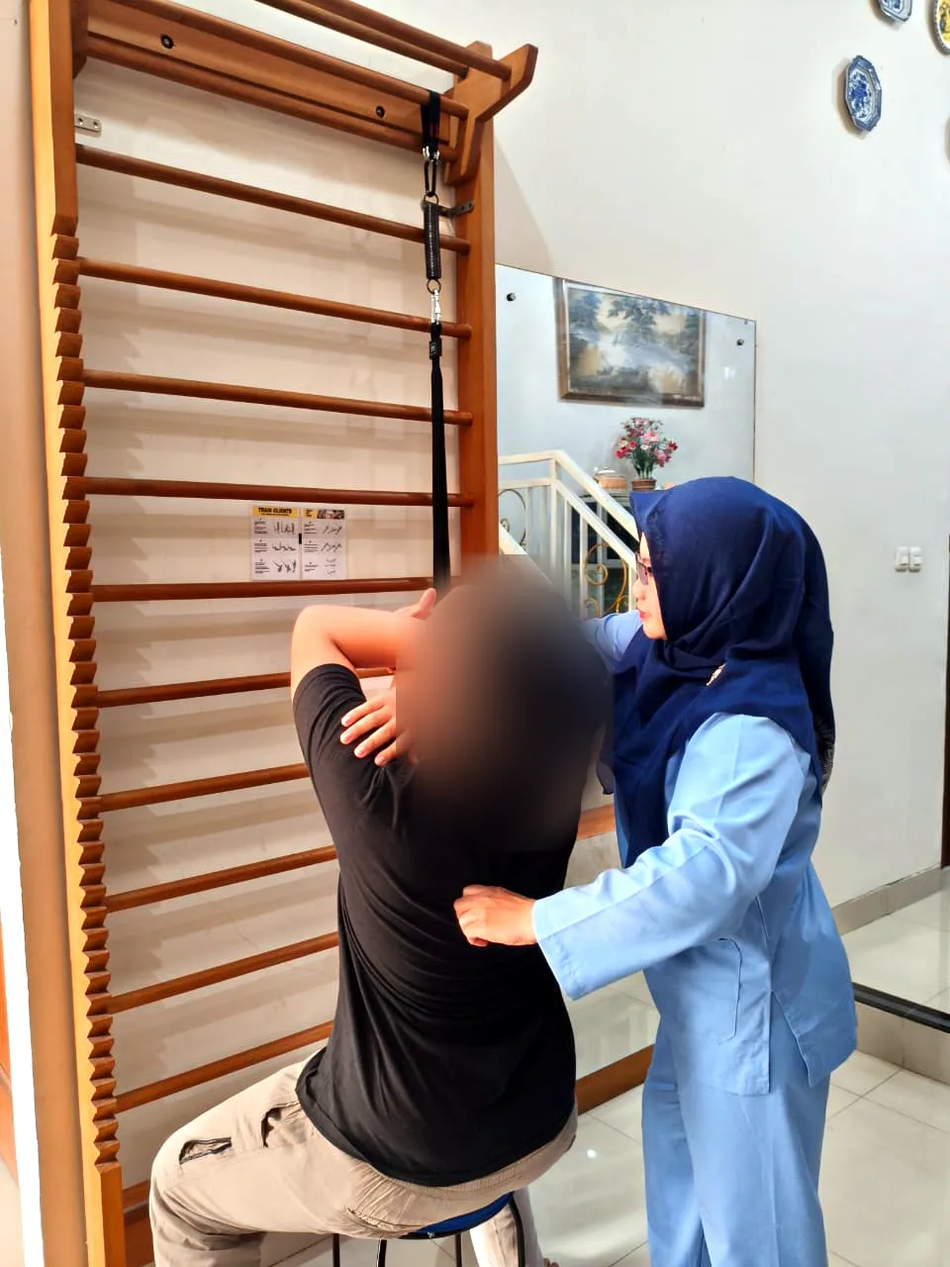
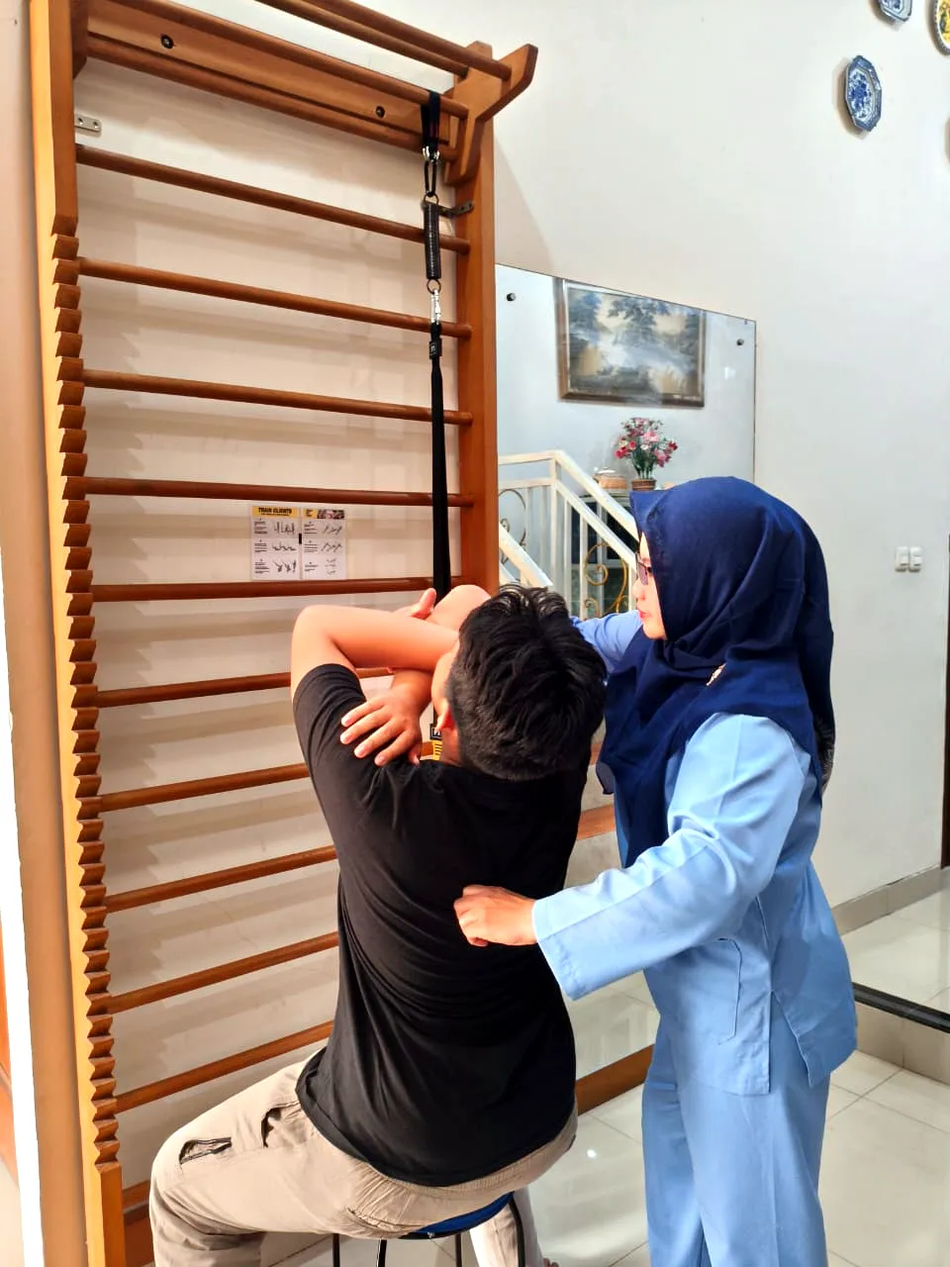
Fisio Puri Bintaro: revisi klien + ulasan Google update otomatis
- Manual therapy tanpa blur (permintaan klien), foto latihan baru + koordinasi/agility
- Teks dry needling, CTA, padel, chip pijat bayi sesuai klien; galeri Dry needling & PENS
- Section ulasan Google live dari ulasan.json, diperbarui harian via GitHub Actions

Claude-Session: https://claude.ai/code/session_01VTnUNSB4Qemk56CkeKtHzV

Changed region(s): [[0.4062, 0.4375, 0.6562, 0.6562]]

diff --git a/klinik/praktek-fisioterapi-puri-bintaro-hijau-595/index.html b/klinik/praktek-fisioterapi-puri-bintaro-hijau-595/index.html
@@ -179,6 +179,7 @@ section{padding:clamp(72px,10vw,120px) 0}
 .edu-body li{display:flex;gap:12px}
 .edu-body li .ico{color:var(--em-600);margin-top:3px}
 .edu-body .small{font-size:.9rem;color:var(--muted);padding:14px 16px;border-left:3px solid var(--gold-500);background:var(--gold-100);border-radius:0 12px 12px 0}
+.note-serius{margin:-6px 0 22px;padding:12px 16px;border-left:3px solid var(--gold-500);background:var(--gold-100);border-radius:0 12px 12px 0;color:var(--ink);font-weight:600}
 .linkx{display:inline-flex;align-items:center;gap:8px;margin-top:22px;font-weight:700;color:var(--em-700)}
 .linkx:hover{color:var(--em-600)}
 @media (max-width:900px){.edu{grid-template-columns:1fr}}
@@ -233,6 +234,27 @@ section{padding:clamp(72px,10vw,120px) 0}
 @media (max-width:900px){.split{grid-template-columns:1fr;gap:40px}.split.rev .ph{order:0}.ph .media{aspect-ratio:var(--ar)}}
 
 /* gallery: masonry, rasio asli, nol crop */
+.rev-wrap{display:grid;grid-template-columns:320px 1fr;gap:28px;align-items:start}
+.rev-sum{position:sticky;top:100px;padding:32px 28px;border-radius:var(--r-lg);background:linear-gradient(160deg,var(--em-900),var(--em-950));color:#fff;box-shadow:var(--shadow);border:1px solid rgba(234,208,138,.25);text-align:center}
+.rev-sum .big{font-family:var(--serif);font-size:4.2rem;line-height:1;font-weight:600;background:var(--grad-gold);-webkit-background-clip:text;background-clip:text;color:transparent}
+.rev-sum .stars{font-size:1.35rem;display:block;margin:10px 0 6px}
+.rev-sum .cnt{color:#cfe0d6;font-weight:600}
+.rev-sum .g-logo{display:inline-flex;align-items:center;gap:8px;margin-top:14px;font-size:.82rem;color:#b9cbc1}
+.rev-sum .btn{width:100%;justify-content:center;margin-top:12px}
+.rev-sum .upd{display:block;margin-top:14px;font-size:.75rem;color:#8fa99b}
+.rev-list{display:grid;grid-template-columns:repeat(auto-fill,minmax(260px,1fr));gap:16px}
+.rev-card{display:flex;flex-direction:column;gap:12px;padding:22px;border-radius:var(--r);background:#fff;border:1px solid var(--line);box-shadow:var(--shadow-sm);color:var(--ink);text-decoration:none;transition:transform .25s var(--ease),border-color .25s}
+.rev-card:hover{transform:translateY(-3px);border-color:var(--gold-400)}
+.rev-card .who{display:flex;align-items:center;gap:12px}
+.rev-card .av{flex:none;width:42px;height:42px;border-radius:50%;display:grid;place-items:center;font-weight:700;color:var(--em-900);background:var(--grad-gold)}
+.rev-card .who b{display:block;font-size:.95rem}
+.rev-card .who small{color:var(--muted);font-size:.8rem}
+.rev-card .stars{font-size:.95rem}
+.rev-card p{color:#3d4a43;font-size:.95rem;line-height:1.6;display:-webkit-box;-webkit-line-clamp:6;-webkit-box-orient:vertical;overflow:hidden;white-space:pre-line}
+.rev-card .more{margin-top:auto;font-size:.82rem;font-weight:700;color:var(--em-700)}
+@media (max-width:900px){.rev-wrap{grid-template-columns:1fr}.rev-sum{position:static}}
+.hero-trust a.rate{color:inherit;text-decoration:none;display:flex;align-items:center;gap:10px;border-bottom:1px dashed rgba(234,208,138,.5);padding-bottom:2px}
+.hero-trust a.rate:hover{color:#fff;border-bottom-color:var(--gold-400)}
 .gal{columns:4 220px;column-gap:14px}
 .gal button{display:block;width:100%;margin:0 0 14px;break-inside:avoid;position:relative;border:0;padding:0;border-radius:18px;overflow:hidden;cursor:zoom-in;background:var(--em-100)}
 .gal img{width:100%;height:auto;transition:transform .6s var(--ease)}
@@ -394,6 +416,14 @@ footer{background:#03160f;color:#9fb3a8;padding:56px 0 110px;font-size:.92rem}
   /* galeri: strip geser, rasio asli */
   .gal{columns:auto;display:flex;overflow-x:auto;scroll-snap-type:x mandatory;gap:10px;margin:0 -16px;padding:0 16px 8px;scrollbar-width:none}
   .gal::-webkit-scrollbar{display:none}
+  .rev-sum{padding:22px 18px}
+  .rev-sum .big{font-size:3.2rem}
+  .rev-sum .btns2{display:grid;grid-template-columns:1fr 1fr;gap:8px}
+  .rev-sum .btn{margin-top:8px;font-size:.85rem;padding-inline:10px}
+  .rev-list{display:flex;overflow-x:auto;scroll-snap-type:x mandatory;gap:12px;margin:0 -16px;padding:0 16px 8px;scrollbar-width:none}
+  .rev-list::-webkit-scrollbar{display:none}
+  .rev-card{flex:0 0 84%;scroll-snap-align:center;padding:18px}
+  .rev-card p{font-size:.9rem;-webkit-line-clamp:7}
   .gal button{flex:0 0 auto;width:auto;height:240px;margin:0;scroll-snap-align:center}
   .gal img{height:100%;width:auto;max-width:none}
   .gal span{display:inline-block;font-size:.72rem;padding:4px 10px}
@@ -448,6 +478,7 @@ footer{background:#03160f;color:#9fb3a8;padding:56px 0 110px;font-size:.92rem}
         <li><a href="#keluhan">Keluhan</a></li>
         <li><a href="#janji">Buat janji</a></li>
         <li><a href="#galeri">Galeri</a></li>
+        <li><a href="#ulasan">Ulasan</a></li>
         <li><a href="#faq">FAQ</a></li>
         <li><a href="#lokasi">Lokasi</a></li>
       </ul>
@@ -471,7 +502,7 @@ footer{background:#03160f;color:#9fb3a8;padding:56px 0 110px;font-size:.92rem}
       </div>
       <span class="note-appt"><svg class="ico"><use href="#i-clock"/></svg>Mohon buat appointment sebelum kedatangan.</span>
       <div class="hero-trust">
-        <div><span class="stars" aria-hidden="true">★★★★★</span> 5,0 · 138 ulasan Google</div>
+        <div><a class="rate" href="#ulasan"><span class="stars" aria-hidden="true">★★★★★</span> <span><span data-u="rating">5,0</span> · <span data-u="jumlah">139</span> ulasan Google</span></a></div>
         <div><svg class="ico"><use href="#i-shield"/></svg>Praktik berizin (SIPF)</div>
         <div><svg class="ico"><use href="#i-home"/></svg>Tersedia homecare</div>
       </div>
@@ -513,7 +544,7 @@ footer{background:#03160f;color:#9fb3a8;padding:56px 0 110px;font-size:.92rem}
       <article class="card c-f rv"><div class="media" style="--src:url(img/massage-gun.webp);--ar:0.780"><img src="img/massage-gun.webp" alt="Massage gun digunakan pada otot betis" loading="lazy" width="936" height="1400"></div><div class="body"><span class="tag">Relaksasi</span><h3>Massage gun</h3><p>Melemaskan otot yang tegang dan membantu pemulihan setelah aktivitas.</p></div></article>
       <article class="card c-g rv"><div class="media" style="--src:url(img/scoliosis-exercise.webp);--ar:1.902"><img src="img/scoliosis-exercise.webp" alt="Pasien melakukan scoliosis exercise dengan gym ball" loading="lazy" width="1400" height="736"></div><div class="body"><span class="tag">Scoliosis exercise</span><h3>Latihan untuk skoliosis</h3><p>Latihan khusus untuk memperbaiki postur, keseimbangan otot, dan kelenturan tulang belakang.</p></div></article>
       <article class="card c-h rv"><div class="media" style="--src:url(img/tapping-ankle.webp);--ar:1.052"><img src="img/tapping-ankle.webp" alt="Kinesio taping pada pergelangan kaki yang terkilir" loading="lazy" width="1364" height="1296"></div><div class="body"><span class="tag">Kinesio taping</span><h3>Taping sprain ankle</h3><p>Dukungan dan rasa stabil pada sendi agar bisa bergerak dengan percaya diri.</p></div></article>
-      <article class="card c-f rv"><div class="media" style="--src:url(img/exercise-wallbar.webp);--ar:0.780"><img src="img/exercise-wallbar.webp" alt="Pasien berlatih dengan wall bar dan gym ball" loading="lazy" width="626" height="1400"></div><div class="body"><span class="tag">Exercise therapy</span><h3>Latihan terapi</h3><p>Latihan penguatan, keseimbangan, dan kontrol gerak, plus program yang bisa dilanjutkan di rumah.</p></div></article>
+      <article class="card c-f rv"><div class="media" style="--src:url(img/exercise-koordinasi.webp);--ar:0.780"><img src="img/exercise-koordinasi.webp" alt="Fisioterapis mendampingi pasien latihan keseimbangan dan koordinasi dengan bola di atas balance pad" loading="lazy" width="871" height="1400"></div><div class="body"><span class="tag">Exercise therapy</span><h3>Latihan terapi</h3><p>Latihan penguatan, keseimbangan, koordinasi, agility, dan kontrol gerak, plus program yang bisa dilanjutkan di rumah.</p></div></article>
       <article class="card plain c-f rv"><span class="mark"><svg class="ico"><use href="#i-hand"/></svg></span><div class="body"><span class="tag">Olahraga</span><h3>Sport massage</h3><p>Pijat khusus untuk atlet dan pegiat olahraga, sebelum maupun sesudah bertanding.</p></div></article>
       <article class="card plain c-f rv"><span class="mark"><svg class="ico"><use href="#i-act"/></svg></span><div class="body"><span class="tag">Dry needling</span><h3>Terapi dengan jarum steril</h3><p>Melepas titik otot yang tegang dan memicu nyeri. <a href="#edukasi" style="color:var(--gold-300);font-weight:700;text-decoration:underline;text-underline-offset:4px">Baca penjelasannya</a></p></div></article>
     </div>
@@ -544,7 +575,8 @@ footer{background:#03160f;color:#9fb3a8;padding:56px 0 110px;font-size:.92rem}
       <p>Dry needling adalah teknik fisioterapi menggunakan jarum tipis steril tanpa obat, yang ditusukkan ke <b>titik pemicu (trigger point)</b>, yaitu simpul otot tegang yang sering jadi sumber nyeri.</p>
       <ul>
         <li><svg class="ico"><use href="#i-check"/></svg><span><b>Melepas otot yang tegang</b> sehingga nyeri berkurang dan gerak sendi lebih leluasa.</span></li>
-        <li><svg class="ico"><use href="#i-check"/></svg><span><b>Sering dipakai untuk</b> nyeri leher, bahu, punggung, serta cedera olahraga.</span></li>
+        <li><svg class="ico"><use href="#i-check"/></svg><span><b>Bisa dipakai untuk</b> masalah otot, myofascial, keterbatasan gerak, nyeri kronik, cedera olahraga, bursitis, peradangan tendon (tendinitis), sprain-strain, dan lainnya.</span></li>
+        <li><svg class="ico"><use href="#i-check"/></svg><span><b>Bisa diaplikasikan pada</b> leher, bahu, pinggang, lutut, ataupun kaki.</span></li>
         <li><svg class="ico"><use href="#i-check"/></svg><span><b>Berbeda dengan akupunktur</b>: dasarnya anatomi otot dan hasil pemeriksaan fisioterapi.</span></li>
       </ul>
       <p class="small">Dilakukan setelah assessment dan hanya bila sesuai dengan kondisi Anda. Rasa pegal ringan setelah terapi adalah hal yang wajar.</p>
@@ -636,6 +668,7 @@ footer{background:#03160f;color:#9fb3a8;padding:56px 0 110px;font-size:.92rem}
         <li><svg class="ico"><use href="#i-check"/></svg>Taping untuk ankle, lutut, dan bahu</li>
         <li><svg class="ico"><use href="#i-check"/></svg>Program kembali ke lapangan dengan aman</li>
       </ul>
+      <p class="note-serius">Jika ada keluhan yang serius, bisa ditangani lebih lanjut di klinik.</p>
       <a class="btn btn-green" href="https://wa.me/6281326604335?text=Halo%2C%20saya%20mengalami%20cedera%20olahraga%20dan%20mau%20konsultasi" target="_blank" rel="noopener">Konsultasi cedera olahraga</a>
     </div>
   </div>
@@ -649,17 +682,48 @@ footer{background:#03160f;color:#9fb3a8;padding:56px 0 110px;font-size:.92rem}
       <h2>Lihat langsung <em class="g">cara kami bekerja.</em></h2>
     </div>
     <div class="gal rv" id="gal">
-      <button class="tall" data-i="0"><img src="img/exercise-wallbar.webp" alt="Latihan dengan wall bar dan gym ball" loading="lazy"><span>Exercise</span></button>
+      <button class="tall" data-i="0"><img src="img/exercise-koordinasi.webp" alt="Latihan keseimbangan dan koordinasi" loading="lazy"><span>Latihan koordinasi</span></button>
+      <button class="tall"><img src="img/manual-therapy.webp" alt="Manual therapy pada bahu" loading="lazy"><span>Manual therapy</span></button>
       <button class="wide" data-i="1"><img src="img/scoliosis-exercise.webp" alt="Scoliosis exercise" loading="lazy"><span>Scoliosis exercise</span></button>
       <button class="tall" data-i="4"><img src="img/ruang-terapi.webp" alt="Ruang terapi klinik" loading="lazy"><span>Ruang terapi</span></button>
       <button data-i="2"><img src="img/irr-lutut.webp" alt="Terapi IRR pada lutut" loading="lazy"><span>IRR</span></button>
       <button data-i="5"><img src="img/irr.webp" alt="Lampu IRR dan elektroterapi" loading="lazy"><span>IRR & TENS</span></button>
       <button data-i="6"><img src="img/eswt.webp" alt="Terapi ESWT" loading="lazy"><span>ESWT</span></button>
       <button class="wide" data-i="7"><img src="img/padel-support.webp" alt="Event padel" loading="lazy"><span>Event padel</span></button>
-      <button data-i="3"><img src="img/tens.webp" alt="Terapi TENS pada tungkai" loading="lazy"><span>TENS</span></button>
+      <button data-i="3"><img src="img/tens.webp" alt="Dry needling dan PENS (Percutaneous Electrical Nerve Stimulation) pada tungkai" loading="lazy"><span>Dry needling &amp; PENS</span></button>
     </div>
     <p class="swipe" aria-hidden="true">Geser untuk melihat foto lainnya <svg class="ico"><use href="#i-arrow"/></svg></p>
     <p class="after rv" style="text-align:center">Lebih banyak di Instagram <a href="https://www.instagram.com/fisioterapi_puri_bintaro_hijau/" target="_blank" rel="noopener">@fisioterapi_puri_bintaro_hijau</a> dan TikTok <a href="https://www.tiktok.com/@fisioterapi.puri" target="_blank" rel="noopener">@fisioterapi.puri</a></p>
+  </div>
+</section>
+
+<!-- ULASAN (diperbarui otomatis tiap hari dari Google lewat ulasan.json) -->
+<section id="ulasan">
+  <div class="wrap">
+    <div class="sec-head rv">
+      <span class="eyebrow">Kata pasien</span>
+      <h2>Ulasan asli dari <em class="g">Google.</em></h2>
+    </div>
+    <div class="rev-wrap">
+      <div class="rev-sum rv">
+        <div class="big" data-u="rating">5,0</div>
+        <span class="stars" aria-hidden="true">★★★★★</span>
+        <div class="cnt">dari <span data-u="jumlah">139</span> ulasan</div>
+        <span class="g-logo"><svg width="16" height="16" viewBox="0 0 48 48" aria-hidden="true"><path fill="#FFC107" d="M43.6 20.1H42V20H24v8h11.3C33.7 32.7 29.2 36 24 36c-6.6 0-12-5.4-12-12s5.4-12 12-12c3.1 0 5.8 1.2 7.9 3l5.7-5.7C34 6.1 29.3 4 24 4 12.9 4 4 12.9 4 24s8.9 20 20 20 20-8.9 20-20c0-1.3-.1-2.6-.4-3.9z"/><path fill="#FF3D00" d="m6.3 14.7 6.6 4.8C14.7 15.1 19 12 24 12c3.1 0 5.8 1.2 7.9 3l5.7-5.7C34 6.1 29.3 4 24 4 16.3 4 9.7 8.3 6.3 14.7z"/><path fill="#4CAF50" d="M24 44c5.2 0 9.9-2 13.4-5.2l-6.2-5.2C29.2 35.1 26.7 36 24 36c-5.2 0-9.6-3.3-11.3-7.9l-6.5 5C9.5 39.6 16.2 44 24 44z"/><path fill="#1976D2" d="M43.6 20.1H42V20H24v8h11.3c-.8 2.2-2.2 4.2-4.1 5.6l6.2 5.2C37 39.2 44 34 44 24c0-1.3-.1-2.6-.4-3.9z"/></svg>Rating Google Maps</span>
+        <div class="btns2">
+          <a class="btn btn-gold" data-u="link" href="https://www.google.com/maps?cid=1336049142106396997" target="_blank" rel="noopener">Lihat semua ulasan</a>
+          <a class="btn btn-ghost" data-u="tulis" href="https://search.google.com/local/writereview?placeid=ChIJC9cWJAD7aS4RRZm3tZ2ZihI" target="_blank" rel="noopener">Tulis ulasan</a>
+        </div>
+        <small class="upd">Diperbarui otomatis: <span data-u="diperbarui">2026-11-10</span></small>
+      </div>
+      <div class="rev-list rv" id="revList"><a class="rev-card" href="https://www.google.com/maps?cid=1336049142106396997" target="_blank" rel="noopener"><div class="who"><span class="av">A</span><div><b>Anah J.</b><small>2 minggu lalu · Google</small></div></div><span class="stars" aria-label="5 dari 5 bintang">★★★★★</span><p>Alhamdulillah hari ke 1 fisioterapi langsung terasa efeknya , lutut yg kaku karena pengapuran berangsur membaik , dan jalan kaki pun sudah berkurang sakitnya.
+Ini sudah 4 kali fisioterapi dan hasilnya sangat memuaskan .
+
+Terimakasih banyak ya Bu atas ketelatenan dan keramahan saat Fisioterapi,  Ibu saya sangat nyaman dan sangat senang karena keluhan sudah berkurang dan semakin membaik.</p><span class="more">Baca di Google</span></a><a class="rev-card" href="https://www.google.com/maps?cid=1336049142106396997" target="_blank" rel="noopener"><div class="who"><span class="av">E</span><div><b>Endah N.</b><small>6 bulan lalu · Google</small></div></div><span class="stars" aria-label="5 dari 5 bintang">★★★★★</span><p>Saya menemani orang tua dengan riwayat post op fraktur, cabut wise dan gyps. Terapis nya sangat ramah, telaten, dan komunikatif. Tempatnya nyaman dan bersih. Walaupun baru 2x terapi, orang tua saya sudah banyak kemajuan. Terimakasih banyak sudah di bantu, nanti jika terapi kembali, semoga bisa dipertemukan kembali dengan kondisi yang lebih baik</p><span class="more">Baca di Google</span></a><a class="rev-card" href="https://www.google.com/maps?cid=1336049142106396997" target="_blank" rel="noopener"><div class="who"><span class="av">M</span><div><b>Mira A.</b><small>sebulan lalu · Google</small></div></div><span class="stars" aria-label="5 dari 5 bintang">★★★★★</span><p>kesini temenin mama fisio karna stroke beberapa kali, therapist nya baik dan ramah banget ( bu lis &amp; kak sabela ) banyak progress setelah ambil paket. terima kasih❤
+
+tempatnya juga nyaman, bonus ada kucing gemeees🐈🤍</p><span class="more">Baca di Google</span></a><a class="rev-card" href="https://www.google.com/maps?cid=1336049142106396997" target="_blank" rel="noopener"><div class="who"><span class="av">S</span><div><b>Sutarni T.</b><small>4 minggu lalu · Google</small></div></div><span class="stars" aria-label="5 dari 5 bintang">★★★★★</span><p>Alhamdulillah 3 kali terapi cidera otot sudah membaik dan bisa sholat dengan benar kembali. Tempat terapinya nyaman dan ibu terapis nya ramah.</p><span class="more">Baca di Google</span></a><a class="rev-card" href="https://www.google.com/maps?cid=1336049142106396997" target="_blank" rel="noopener"><div class="who"><span class="av">M</span><div><b>Mukhaya</b><small>sebulan lalu · Google</small></div></div><span class="stars" aria-label="5 dari 5 bintang">★★★★★</span><p>Alhamdulillah, dapat rekomen dr temen, suami dan saya fisioterapi disini, semakin sehat dan kuat. Terapisnya detail dan teliti, nyaman tempatnya.</p><span class="more">Baca di Google</span></a></div>
+    </div>
+    <p class="swipe" aria-hidden="true">Geser untuk membaca ulasan lainnya <svg class="ico"><use href="#i-arrow"/></svg></p>
   </div>
 </section>
 
@@ -710,7 +774,7 @@ footer{background:#03160f;color:#9fb3a8;padding:56px 0 110px;font-size:.92rem}
   <div class="wrap rv">
     <span class="eyebrow">Visi kami</span>
     <h2>“Kepuasan dan progres terbaik pasien adalah <em class="g">kebahagiaan kami.</em>”</h2>
-    <p class="lead">Jangan tunggu nyerinya makin parah. Semakin cepat ditangani, biasanya pemulihan juga semakin cepat.</p>
+    <p class="lead">Jangan menunggu keluhan makin parah dan aktivitas terganggu. Semakin cepat ditangani, pemulihan lebih cepat dan hasil lebih optimal.</p>
     <div class="btns">
       <a href="#janji" class="btn btn-gold"><svg class="ico"><use href="#i-cal"/></svg>Buat appointment</a>
       <a href="https://wa.me/6281326604335" target="_blank" rel="noopener" class="btn btn-ghost">Chat WhatsApp</a>
@@ -760,7 +824,7 @@ footer{background:#03160f;color:#9fb3a8;padding:56px 0 110px;font-size:.92rem}
 <script>
 (() => {
   const WA = "6281326604335";
-  const KELUHAN = ["Nyeri pinggang, bahu, lutut, siku","Saraf kejepit & HNP","Pasca stroke & Parkinson","Cedera olahraga","Keseleo / ankle sprain","Cedera pergelangan tangan (TFCC)","Frozen shoulder","Gangguan gerak & otot lemah","Vertigo","Skoliosis","Pemulihan pasca operasi","Lansia & pasien tirah baring","Stimulasi sensorimotor"];
+  const KELUHAN = ["Nyeri pinggang, bahu, lutut, siku","Saraf kejepit & HNP","Pasca stroke & Parkinson","Cedera olahraga","Keseleo / ankle sprain","Cedera pergelangan tangan (TFCC)","Frozen shoulder","Gangguan gerak & otot lemah","Vertigo","Skoliosis","Pemulihan pasca operasi","Lansia & pasien tirah baring","Pijat bayi dengan stimulasi sensomotorik terintegrasi"];
 
   // keluhan chips + select
   const chips = document.getElementById("chips"), sel = document.getElementById("fKeluhan");
@@ -826,6 +890,19 @@ footer{background:#03160f;color:#9fb3a8;padding:56px 0 110px;font-size:.92rem}
     ].filter(x => x !== null).join("\n");
     window.open(`https://wa.me/${WA}?text=${encodeURIComponent(baris)}`, "_blank", "noopener");
   });
+
+  // ulasan Google live (ulasan.json diperbarui otomatis tiap hari)
+  const esc = t => String(t).replace(/[&<>"]/g, c => ({"&":"&amp;","<":"&lt;",">":"&gt;",'"':"&quot;"}[c]));
+  const tglID = x => { const t = new Date(x + "T00:00:00"); return isNaN(t) ? x : t.toLocaleDateString("id-ID", { day: "numeric", month: "long", year: "numeric" }); };
+  const isiUlasan = u => {
+    if (!u || !u.rating || !u.jumlah) return;
+    const val = { rating: u.rating.toFixed(1).replace(".", ","), jumlah: u.jumlah.toLocaleString("id-ID"), diperbarui: tglID(u.diperbarui) };
+    document.querySelectorAll("[data-u]").forEach(el => { const k = el.dataset.u; if (k in val) el.textContent = val[k]; else if (u[k]) el.href = u[k]; });
+    if (Array.isArray(u.ulasan) && u.ulasan.length) document.getElementById("revList").innerHTML = u.ulasan.map(r =>
+      `<a class="rev-card" href="${esc(u.link)}" target="_blank" rel="noopener"><div class="who"><span class="av">${esc(r.nama.charAt(0))}</span><div><b>${esc(r.nama)}</b><small>${esc(r.waktu)} · Google</small></div></div><span class="stars" aria-label="${r.bintang} dari 5 bintang">${"★".repeat(Math.max(0, Math.min(5, r.bintang|0)))}</span><p>${esc(r.teks)}</p><span class="more">Baca di Google</span></a>`).join("");
+  };
+  document.querySelectorAll('[data-u="diperbarui"]').forEach(el => el.textContent = tglID(el.textContent));
+  fetch("ulasan.json?v=" + Math.floor(Date.now() / 36e5), { cache: "no-cache" }).then(r => r.ok ? r.json() : null).then(isiUlasan).catch(() => {});
 
   // lightbox
   const lb = document.getElementById("lb"), lbImg = lb.querySelector("img"), lbCap = lb.querySelector("p");

diff --git a/.github/scripts/ulasan_fisio.py b/.github/scripts/ulasan_fisio.py
@@ -1,0 +1,87 @@
+"""Ambil rating, jumlah ulasan, dan ulasan teratas Google Maps untuk
+Praktek Fisioterapi Puri Bintaro Hijau -> ulasan.json (dipakai index.html).
+Dijalankan harian oleh .github/workflows/ulasan-fisio.yml. Hanya membaca Google Maps.
+Keluar dengan kode 0 + tanpa menulis file kalau scraping gagal, supaya data lama tetap tampil."""
+import datetime, json, pathlib, re, sys
+from playwright.sync_api import sync_playwright
+
+CID = "1336049142106396997"
+PLACE_ID = "ChIJC9cWJAD7aS4RRZm3tZ2ZihI"
+OUT = pathlib.Path(__file__).resolve().parents[2] / "klinik/praktek-fisioterapi-puri-bintaro-hijau-595/ulasan.json"
+UA = "Mozilla/5.0 (Windows NT 10.0; Win64; x64) AppleWebKit/537.36 (KHTML, like Gecko) Chrome/141.0.0.0 Safari/537.36"
+MAKS = 9
+
+
+def nama_pendek(n):
+    p = n.split()
+    if not p: return ""
+    a = p[0][:1].upper() + p[0][1:]
+    return a if len(p) == 1 else f"{a} {p[1][0].upper()}."
+
+
+def ambil():
+    with sync_playwright() as p:
+        b = p.chromium.launch(headless=True)
+        try:
+            ctx = b.new_context(locale="id-ID", timezone_id="Asia/Jakarta", user_agent=UA, viewport={"width": 1280, "height": 900})
+            ctx.add_cookies([{"name": "SOCS", "value": "CAESHAgBEhJnd3NfMjAyMzA4MTAtMF9SQzIaAmlkIAEaBgiAo_CmBg", "domain": ".google.com", "path": "/"}])
+            pg = ctx.new_page()
+            pg.goto(f"https://www.google.com/maps?cid={CID}&hl=id&gl=id", wait_until="domcontentloaded", timeout=60000)
+            pg.wait_for_selector("div[role=main]", timeout=60000)
+            pg.wait_for_timeout(6000)
+            rating = jumlah = None
+            for s in pg.eval_on_selector_all("[aria-label]", "e=>e.map(x=>x.getAttribute('aria-label'))"):
+                s = s or ""
+                m = re.fullmatch(r"\s*(\d[,.]\d) bintang\s*", s)
+                if m and rating is None: rating = float(m.group(1).replace(",", "."))
+                m = re.fullmatch(r"\s*([\d.]+) ulasan\s*", s)
+                if m and jumlah is None: jumlah = int(m.group(1).replace(".", ""))
+            ulasan = []
+            tab = next((t for t in pg.query_selector_all("button[role=tab]") if t.inner_text().strip().startswith("Ulasan")), None)
+            if tab:
+                tab.click(); pg.wait_for_timeout(4000)
+            for btn in pg.query_selector_all("button.w8nwRe"):  # tombol "Lainnya"
+                try: btn.click(timeout=1000)
+                except Exception: pass
+            pg.wait_for_timeout(800)
+            ulasan = pg.evaluate(r"""() => [...document.querySelectorAll('div[data-review-id].jftiEf')].map(r => {
+                const st = r.querySelector('[role=img][aria-label*="bintang"]');
+                return { nama: (r.querySelector('.d4r55')||{}).innerText || '',
+                         bintang: st ? parseInt(st.getAttribute('aria-label')) : 0,
+                         waktu: (r.querySelector('.rsqaWe')||{}).innerText || '',
+                         teks: ((r.querySelector('.wiI7pd')||{}).innerText || '').trim() } })""")
+        finally:
+            b.close()
+    hasil, lihat = [], set()
+    for u in ulasan:
+        if u["bintang"] >= 4 and len(u["teks"]) >= 25 and u["nama"] and u["nama"] not in lihat:
+            lihat.add(u["nama"]); hasil.append({**u, "nama": nama_pendek(u["nama"])})
+        if len(hasil) >= MAKS: break
+    return rating, jumlah, hasil
+
+
+def main():
+    lama = json.loads(OUT.read_text("utf-8")) if OUT.exists() else {}
+    try:
+        rating, jumlah, ulasan = ambil()
+    except Exception as e:
+        print("gagal scraping:", e); return
+    if not rating or not jumlah or rating > 5 or (lama.get("jumlah") and jumlah < lama["jumlah"] * 0.8):
+        print("data tidak wajar, dilewati:", rating, jumlah); return
+    data = {"rating": rating, "jumlah": jumlah,
+            "ulasan": ulasan if len(ulasan) >= 3 else lama.get("ulasan", []),
+            "link": f"https://www.google.com/maps?cid={CID}",
+            "tulis": f"https://search.google.com/local/writereview?placeid={PLACE_ID}",
+            "diperbarui": datetime.date.today().isoformat()}
+    inti = lambda d: {k: v for k, v in d.items() if k != "diperbarui"}
+    try: umur = (datetime.date.today() - datetime.date.fromisoformat(lama.get("diperbarui", "2000-01-01"))).days
+    except ValueError: umur = 999
+    if inti(lama) == inti(data) and umur < 7:
+        print("tidak berubah:", rating, jumlah); return
+    OUT.write_text(json.dumps(data, ensure_ascii=False, indent=1), "utf-8")
+    print("diperbarui:", rating, jumlah, len(data["ulasan"]), "ulasan")
+
+
+if __name__ == "__main__":
+    main()
+    sys.exit(0)
